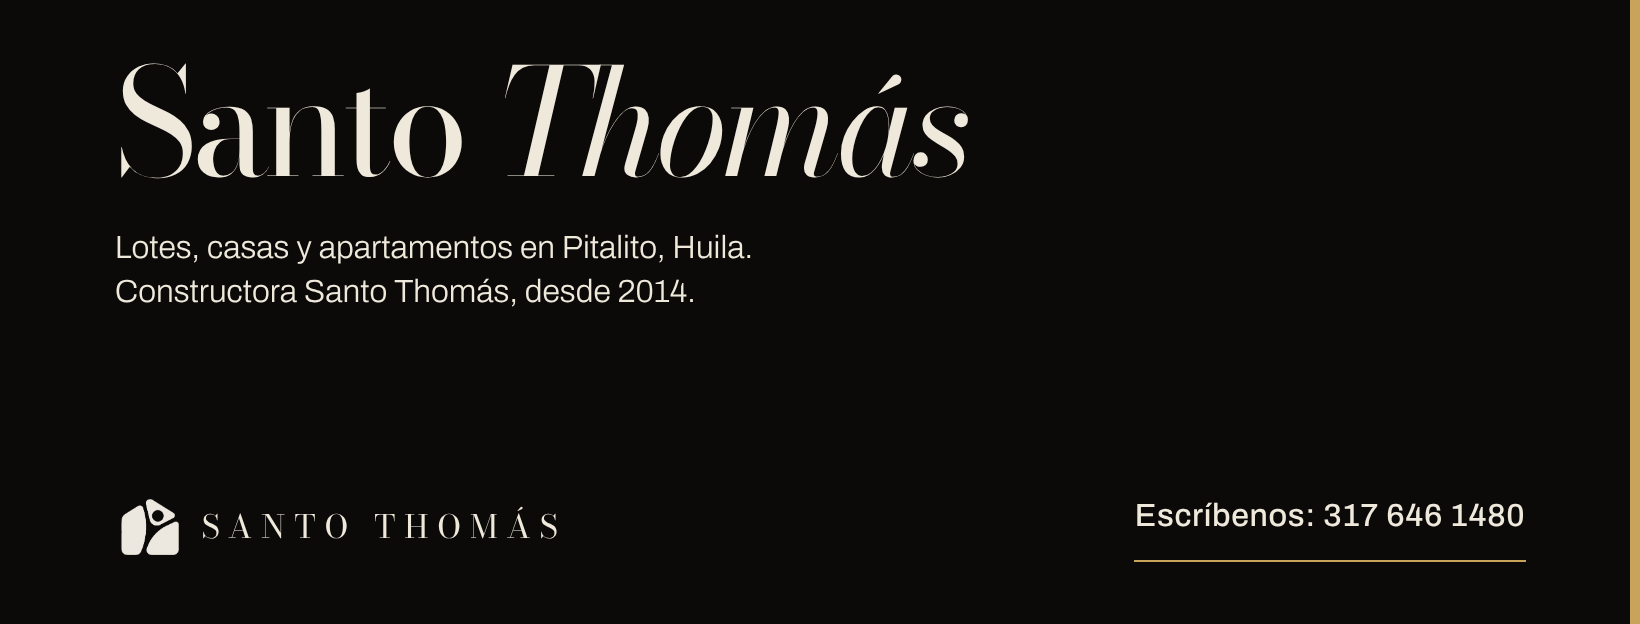
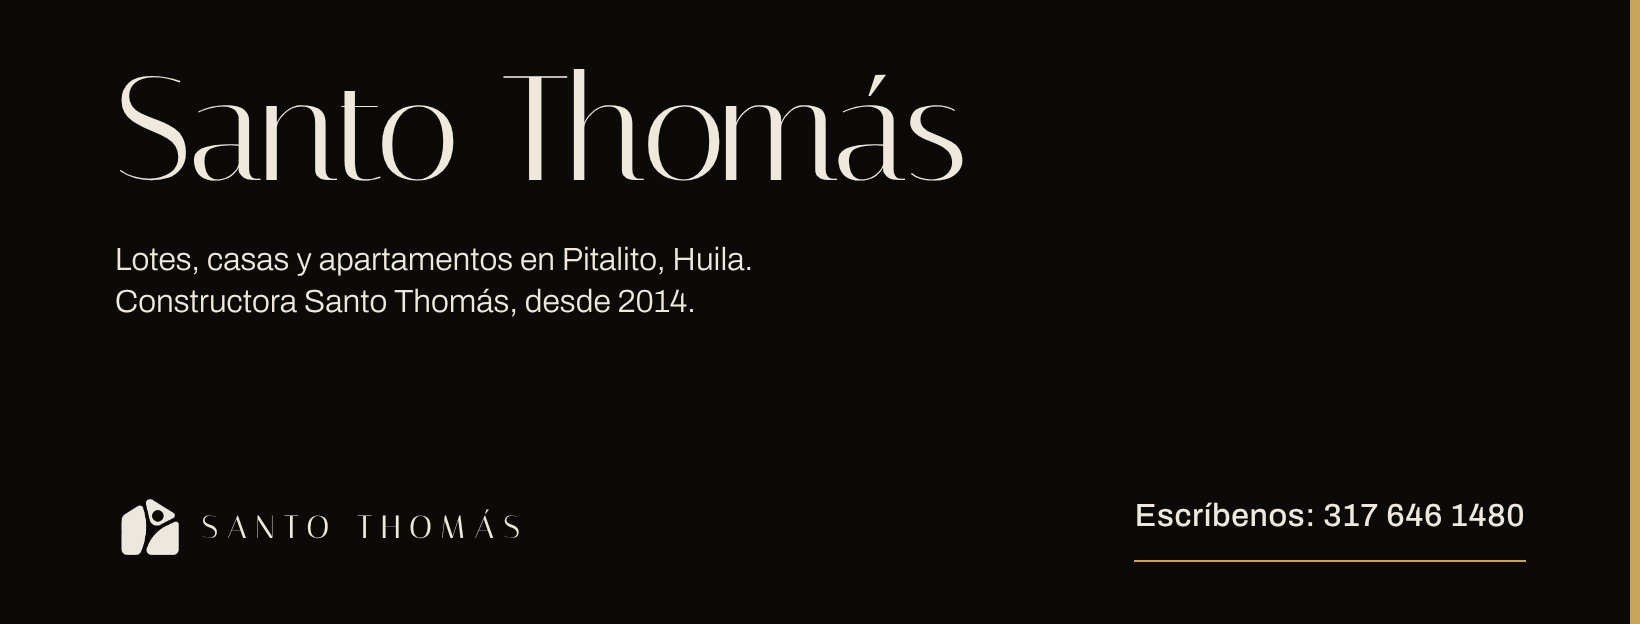
Move the history section up and switch display type to Italiana
History and key dates now follow the manifesto, before the projects;
the FAQ stays near the end. Headings use Italiana, whose thin flared
letters echo the logo wordmark, in place of Bodoni Moda.

Claude-Session: https://claude.ai/code/session_01EuNx7qHGaqCun31qjyEdxN

diff --git a/santo-thomas/index.html b/santo-thomas/index.html
@@ -17,7 +17,7 @@
 <link rel="apple-touch-icon" href="img/favicon.png">
 <link rel="preconnect" href="https://fonts.googleapis.com">
 <link rel="preconnect" href="https://fonts.gstatic.com" crossorigin>
-<link href="https://fonts.googleapis.com/css2?family=Bodoni+Moda:ital,opsz,wght@0,6..96,400..600;1,6..96,400..600&family=Archivo:wght@300..600&display=swap" rel="stylesheet">
+<link href="https://fonts.googleapis.com/css2?family=Italiana&family=Archivo:wght@300..600&display=swap" rel="stylesheet">
 <script type="application/ld+json">
 {
   "@context": "https://schema.org",
@@ -46,7 +46,7 @@
   --oro:#c8a45a; --bronce:#8c7446; --gris:#9a9383; --linea:rgba(239,233,220,.16);
   --m:clamp(20px,3.2vw,56px);
   --seccion:clamp(110px,16vw,250px);
-  --serif:'Bodoni Moda','Didot','Bodoni 72',Georgia,serif;
+  --serif:'Italiana','Optima','Candara',Georgia,serif;
   --salir:cubic-bezier(.16,.84,.24,1);
 }
 *,*::before,*::after{box-sizing:border-box}
@@ -58,15 +58,16 @@ img{display:block;max-width:100%;height:auto}
 a{color:inherit}
 h1,h2,h3,p,figure,ul,ol,dl,dd{margin:0}
 ul,ol{padding:0;list-style:none}
-h1,h2,h3{font-family:var(--serif);font-weight:400;letter-spacing:-.028em;line-height:.9}
+h1,h2,h3{font-family:var(--serif);font-weight:400;letter-spacing:-.012em;line-height:.94}
 h2{font-size:clamp(44px,7.4vw,124px)}
-em{font-style:italic}
+em{font-style:normal;color:var(--oro)}
+.claro em{color:#8a6a24}
 .wrap{padding-inline:var(--m)}
 .seccion{padding-block:var(--seccion)}
 /* Rótulo: la letra pequeña del sistema */
 .rot{font-size:12px;font-weight:500;letter-spacing:.24em;text-transform:uppercase;color:var(--gris);line-height:1.5}
 .rot b{font-weight:500;color:var(--oro)}
-.decl{font-family:var(--serif);font-size:clamp(26px,2.9vw,44px);line-height:1.14;letter-spacing:-.015em}
+.decl{font-family:var(--serif);font-size:clamp(27px,3vw,46px);line-height:1.14;letter-spacing:0}
 .nota{font-size:15px;line-height:1.5;color:var(--gris)}
 .filete{height:1px;background:var(--linea);border:0;margin:0}
 :focus-visible{outline:1px solid var(--oro);outline-offset:5px}
@@ -100,7 +101,7 @@ em{font-style:italic}
 
 /* Barra */
 .barra{position:absolute;top:0;left:0;right:0;z-index:5;display:flex;align-items:center;gap:var(--m);padding:28px var(--m)}
-.barra .marca{margin-right:auto;display:flex;align-items:center;gap:14px;text-decoration:none;font-family:var(--serif);font-size:17px;letter-spacing:.3em;text-transform:uppercase}
+.barra .marca{margin-right:auto;display:flex;align-items:center;gap:14px;text-decoration:none;font-family:var(--serif);font-size:19px;letter-spacing:.3em;text-transform:uppercase}
 .barra .marca img{width:30px;height:auto}
 .barra ul{display:flex;gap:clamp(18px,3vw,48px)}
 .barra nav a{text-decoration:none;font-size:12px;font-weight:500;letter-spacing:.22em;text-transform:uppercase;padding:12px 0;display:block;transition:color .25s}
@@ -109,8 +110,8 @@ em{font-style:italic}
 
 /* Portada: dos palabras enormes que pisan las fotos */
 .portada{position:relative;min-height:max(100svh,700px);display:grid;grid-template-columns:repeat(12,minmax(0,1fr));grid-template-rows:1fr auto;column-gap:var(--m);padding:120px var(--m) clamp(28px,5vh,56px)}
-.portada h1{grid-column:1/-1;grid-row:1;align-self:center;position:relative;z-index:2;font-size:clamp(76px,16.6vw,290px);line-height:.82;letter-spacing:-.045em;pointer-events:none;mix-blend-mode:difference}
-.portada h1 .l2{padding-left:16vw;font-style:italic}
+.portada h1{grid-column:1/-1;grid-row:1;align-self:center;position:relative;z-index:2;font-size:clamp(72px,15.4vw,270px);line-height:.9;letter-spacing:-.02em;pointer-events:none;mix-blend-mode:difference}
+.portada h1 .l2{padding-left:16vw}
 /* El isotipo vive en la sangría de la segunda línea; el vidrio lo revela al abrir */
 .portada .sello{grid-column:1/4;grid-row:1;align-self:center;position:relative;z-index:1;width:21vw;margin-left:-3.4vw;aspect-ratio:1;transform:translateY(7.6vw);cursor:pointer}
 .portada .sello img{position:absolute;inset:0;margin:auto;width:42%;height:auto}
@@ -129,8 +130,8 @@ em{font-style:italic}
 }
 
 /* Manifiesto: se enciende palabra por palabra al pasar */
-.manifiesto{padding-block:clamp(110px,18vw,280px);display:grid;gap:36px}
-.manifiesto p.texto{font-family:var(--serif);font-size:clamp(30px,4.5vw,76px);line-height:1.08;letter-spacing:-.022em;max-width:20ch;text-wrap:balance}
+.manifiesto{padding-block:clamp(110px,18vw,280px) clamp(90px,13vw,200px);display:grid;gap:36px}
+.manifiesto p.texto{font-family:var(--serif);font-size:clamp(30px,4.5vw,76px);line-height:1.1;letter-spacing:-.008em;max-width:20ch;text-wrap:balance}
 .manifiesto .texto span{opacity:.16;transition:opacity .5s linear}
 .manifiesto .texto span.on{opacity:1}
 @media(min-width:900px){.manifiesto{grid-template-columns:repeat(12,minmax(0,1fr));column-gap:var(--m)}.manifiesto .rot{grid-column:1/4;padding-top:.9em}.manifiesto p.texto{grid-column:4/13;max-width:19ch}}
@@ -140,7 +141,7 @@ em{font-style:italic}
 .laminas .cab{display:flex;justify-content:space-between;align-items:end;gap:24px;padding-bottom:28px}
 .lamina{display:grid;gap:28px;padding-block:44px}
 .lamina .foto{aspect-ratio:4/3}
-.lamina .num{font-family:var(--serif);font-size:clamp(90px,15vw,250px);line-height:.74;letter-spacing:-.05em;color:transparent;-webkit-text-stroke:1px var(--bronce)}
+.lamina .num{font-family:var(--serif);font-size:clamp(90px,15vw,250px);line-height:.8;letter-spacing:-.02em;color:var(--bronce)}
 .lamina .txt{display:grid;gap:24px;justify-items:start;align-content:end}
 .lamina h3{font-size:clamp(40px,5.2vw,88px)}
 .lamina .txt p:not(.decl){max-width:40ch}
@@ -176,8 +177,8 @@ em{font-style:italic}
 @media(min-width:900px){.obra .cab{grid-template-columns:repeat(12,minmax(0,1fr));column-gap:var(--m);align-items:end}.obra .cab h2{grid-column:1/8}.obra .cab p{grid-column:9/13}}
 .pasos{display:grid;gap:clamp(14px,2vw,32px)}
 .pasos li{display:grid;gap:16px}
-.pasos .n{font-family:var(--serif);font-size:15px;letter-spacing:.1em;color:var(--oro)}
-.pasos h3{font-size:clamp(26px,2.4vw,38px);letter-spacing:-.015em;line-height:1}
+.pasos .n{font-family:var(--serif);font-size:22px;letter-spacing:.1em;color:var(--oro)}
+.pasos h3{font-size:clamp(28px,2.6vw,40px);letter-spacing:0;line-height:1}
 @media(min-width:900px){.pasos{grid-template-columns:repeat(3,minmax(0,1fr))}.pasos li:nth-child(2){margin-top:9vw}.pasos li:nth-child(3){margin-top:3vw}}
 
 /* Buscador */
@@ -185,11 +186,11 @@ em{font-style:italic}
 @media(min-width:900px){.busca{grid-template-columns:minmax(0,5fr) minmax(0,7fr)}}
 .busca form{display:grid;gap:34px;justify-items:start}
 .opciones{display:grid;width:100%;border-top:1px solid var(--linea)}
-.opciones label{display:flex;align-items:baseline;justify-content:space-between;gap:18px;padding:18px 0;border-bottom:1px solid var(--linea);cursor:pointer;font-family:var(--serif);font-size:clamp(28px,3.1vw,48px);line-height:1;letter-spacing:-.02em;color:#6f695d;transition:color .3s,padding .5s var(--salir)}
+.opciones label{display:flex;align-items:baseline;justify-content:space-between;gap:18px;padding:18px 0;border-bottom:1px solid var(--linea);cursor:pointer;font-family:var(--serif);font-size:clamp(28px,3.1vw,48px);line-height:1;letter-spacing:0;color:#6f695d;transition:color .3s,padding .5s var(--salir)}
 .opciones label::after{content:"";width:8px;height:8px;border-radius:50%;background:var(--oro);opacity:0;transform:scale(.3);transition:opacity .3s,transform .5s var(--salir);flex:none;align-self:center}
 .opciones label:hover{color:var(--marfil)}
 .opciones input{position:absolute;opacity:0;pointer-events:none}
-.opciones label:has(input:checked){color:var(--marfil);padding-left:18px;font-style:italic}
+.opciones label:has(input:checked){color:var(--marfil);padding-left:18px}
 .opciones label:has(input:checked)::after{opacity:1;transform:none}
 .opciones label:has(input:focus-visible){outline:1px solid var(--oro);outline-offset:4px}
 .plano{position:relative;aspect-ratio:4/3}
@@ -205,13 +206,13 @@ em{font-style:italic}
 @media(min-width:900px){.empresa{grid-template-columns:repeat(12,minmax(0,1fr));column-gap:var(--m)}.empresa .txt{grid-column:1/8}.empresa .foto{grid-column:9/13;margin-top:10vw}}
 .cifras{display:grid;gap:28px;padding-top:clamp(56px,8vw,120px)}
 .cifras div{display:grid;gap:10px;padding-top:22px;border-top:1px solid rgba(11,10,8,.2)}
-.cifras b{font-family:var(--serif);font-weight:400;font-variation-settings:'opsz' 30;font-size:clamp(64px,9vw,150px);line-height:.8;letter-spacing:-.05em;font-variant-numeric:lining-nums}
+.cifras b{font-family:var(--serif);font-weight:400;font-size:clamp(64px,9vw,150px);line-height:.86;letter-spacing:-.01em;font-variant-numeric:lining-nums}
 @media(min-width:700px){.cifras{grid-template-columns:repeat(3,minmax(0,1fr));column-gap:var(--m)}}
-.preg{display:grid;gap:clamp(28px,4vw,64px);padding-top:var(--seccion)}
+.preg{display:grid;gap:clamp(28px,4vw,64px)}
 @media(min-width:900px){.preg{grid-template-columns:repeat(12,minmax(0,1fr));column-gap:var(--m)}.preg h2{grid-column:1/6}.preg .lista{grid-column:7/13}}
 .preg details{border-bottom:1px solid rgba(11,10,8,.2)}
 .preg details:first-child{border-top:1px solid rgba(11,10,8,.2)}
-.preg summary{cursor:pointer;list-style:none;padding:22px 0;font-family:var(--serif);font-size:clamp(24px,2.1vw,32px);line-height:1.1;letter-spacing:-.015em;display:flex;justify-content:space-between;gap:20px;transition:color .25s}
+.preg summary{cursor:pointer;list-style:none;padding:22px 0;font-family:var(--serif);font-size:clamp(26px,2.3vw,34px);line-height:1.1;letter-spacing:0;display:flex;justify-content:space-between;gap:20px;transition:color .25s}
 .preg summary::-webkit-details-marker{display:none}
 .preg summary::after{content:"+";font-family:Archivo,sans-serif;font-weight:300;font-size:26px;transition:transform .4s var(--salir)}
 .preg details[open] summary::after{transform:rotate(45deg)}
@@ -222,10 +223,10 @@ em{font-style:italic}
 .cierre{padding-top:var(--seccion);overflow:hidden}
 .cierre .datos{display:grid;gap:clamp(32px,5vw,80px);padding-bottom:clamp(64px,9vw,140px)}
 @media(min-width:900px){.cierre .datos{grid-template-columns:repeat(12,minmax(0,1fr));column-gap:var(--m);align-items:end}.cierre .datos > div{grid-column:1/8}.cierre address{grid-column:9/13}}
-.cierre .tel{font-family:var(--serif);font-variation-settings:'opsz' 36;font-size:clamp(48px,8vw,132px);font-variant-numeric:lining-nums;letter-spacing:-.04em;line-height:.9;text-decoration:none;display:inline-block;margin-block:22px 30px;transition:color .25s}
+.cierre .tel{font-family:var(--serif);font-size:clamp(48px,8vw,132px);letter-spacing:0;line-height:.9;text-decoration:none;display:inline-block;margin-block:22px 30px;transition:color .25s}
 .cierre .tel:hover{color:var(--oro)}
 .cierre address{font-style:normal;display:grid;gap:16px;justify-items:start}
-.cierre .firma{font-family:var(--serif);font-size:15.6vw;line-height:.78;letter-spacing:-.045em;white-space:nowrap;text-align:center;color:transparent;-webkit-text-stroke:1px var(--bronce);padding-bottom:.06em;user-select:none}
+.cierre .firma{font-family:var(--serif);font-size:15vw;line-height:.86;letter-spacing:-.015em;white-space:nowrap;text-align:center;color:var(--carbon-2);padding-bottom:.06em;user-select:none}
 .cierre .pie{padding:22px var(--m);border-top:1px solid var(--linea);display:flex;flex-wrap:wrap;gap:8px 24px;justify-content:space-between}
 
 .flota{position:fixed;left:0;right:0;bottom:0;z-index:14;display:none;justify-content:center;padding:14px var(--m) calc(14px + env(safe-area-inset-bottom));background:var(--negro);border-top:1px solid var(--linea);text-decoration:none;font-size:11px;font-weight:500;letter-spacing:.24em;text-transform:uppercase}
@@ -242,9 +243,9 @@ em{font-style:italic}
   </a>
   <nav aria-label="Principal">
     <ul>
+      <li><a href="#empresa">Historia</a></li>
       <li><a href="#proyectos">Proyectos</a></li>
       <li><a href="#obra">Obra</a></li>
-      <li><a href="#empresa">Empresa</a></li>
       <li><a href="#contacto">Contacto</a></li>
       <li class="wa"><a href="https://wa.me/573176461480?text=Hola%2C%20quiero%20informaci%C3%B3n%20sobre%20los%20proyectos%20de%20Constructora%20Santo%20Thom%C3%A1s.">WhatsApp</a></li>
     </ul>
@@ -271,6 +272,26 @@ em{font-style:italic}
 <section class="manifiesto wrap">
   <p class="rot">La constructora</p>
   <p class="texto" id="manifiesto">Antes de la casa está la tierra. Abrimos la vía, tendemos las redes y entregamos el lote listo para construir.</p>
+</section>
+
+<section class="claro seccion wrap" id="empresa">
+  <div class="empresa" data-grupo>
+    <div class="txt">
+      <p class="rot" data-sube>Nuestra historia</p>
+      <h2><span class="linea"><span>De Pitalito,</span></span><span class="linea" style="--i:1"><span><em>para Pitalito</em></span></span></h2>
+      <p class="decl" data-sube style="--i:2;max-width:24ch">Trabajamos en el Huila desde 2014 y somos sociedad por acciones simplificada desde 2019.</p>
+      <p data-sube style="--i:3;max-width:46ch">Atendemos en nuestra oficina del Centro Comercial Gran Plaza San Antonio. Allí te mostramos cada proyecto y coordinamos la visita al lote.</p>
+      <a class="accion" data-sube style="--i:4" href="https://www.google.com/maps/search/?api=1&query=Centro+Comercial+Gran+Plaza+San+Antonio+Pitalito+Huila">Cómo llegar a la oficina</a>
+    </div>
+    <figure class="foto" data-tapa data-par style="--i:2">
+      <img src="img/oficina.webp" srcset="img/oficina-800.webp 800w, img/oficina.webp 1280w" sizes="(min-width:900px) 32vw, 100vw" width="1280" height="960" loading="lazy" alt="Recepción de la oficina de Santo Thomás.">
+    </figure>
+  </div>
+  <div class="cifras" data-grupo>
+    <div data-sube><b>2014</b><span class="rot">Año en que empezamos</span></div>
+    <div data-sube style="--i:1"><b>2019</b><span class="rot">Constituidos como S.A.S.</span></div>
+    <div data-sube style="--i:2"><b>148</b><span class="rot">Local en Gran Plaza San Antonio</span></div>
+  </div>
 </section>
 
 <section class="laminas" id="proyectos" aria-labelledby="proy-t">
@@ -380,24 +401,7 @@ em{font-style:italic}
   </div>
 </section>
 
-<section class="claro seccion wrap" id="empresa">
-  <div class="empresa" data-grupo>
-    <div class="txt">
-      <p class="rot" data-sube>La empresa</p>
-      <h2><span class="linea"><span>De Pitalito,</span></span><span class="linea" style="--i:1"><span><em>para Pitalito</em></span></span></h2>
-      <p class="decl" data-sube style="--i:2;max-width:24ch">Trabajamos en el Huila desde 2014 y somos sociedad por acciones simplificada desde 2019.</p>
-      <p data-sube style="--i:3;max-width:46ch">Atendemos en nuestra oficina del Centro Comercial Gran Plaza San Antonio. Allí te mostramos cada proyecto y coordinamos la visita al lote.</p>
-      <a class="accion" data-sube style="--i:4" href="https://www.google.com/maps/search/?api=1&query=Centro+Comercial+Gran+Plaza+San+Antonio+Pitalito+Huila">Cómo llegar a la oficina</a>
-    </div>
-    <figure class="foto" data-tapa data-par style="--i:2">
-      <img src="img/oficina.webp" srcset="img/oficina-800.webp 800w, img/oficina.webp 1280w" sizes="(min-width:900px) 32vw, 100vw" width="1280" height="960" loading="lazy" alt="Recepción de la oficina de Santo Thomás.">
-    </figure>
-  </div>
-  <div class="cifras" data-grupo>
-    <div data-sube><b>2014</b><span class="rot">Año en que empezamos</span></div>
-    <div data-sube style="--i:1"><b>2019</b><span class="rot">Constituidos como S.A.S.</span></div>
-    <div data-sube style="--i:2"><b>148</b><span class="rot">Local en Gran Plaza San Antonio</span></div>
-  </div>
+<section class="claro seccion wrap">
   <div class="preg" data-grupo>
     <h2><span class="linea"><span>Preguntas</span></span></h2>
     <div class="lista" data-sube style="--i:1">

diff --git a/santo-thomas/marca/brandkit.html b/santo-thomas/marca/brandkit.html
@@ -3,7 +3,7 @@
 <head>
 <meta charset="UTF-8">
 <title>Sistema de marca · Constructora Santo Thomás</title>
-<link href="https://fonts.googleapis.com/css2?family=Bodoni+Moda:ital,opsz,wght@0,6..96,400..600;1,6..96,400..600&family=Archivo:wght@300..600&display=swap" rel="stylesheet">
+<link href="https://fonts.googleapis.com/css2?family=Italiana&family=Archivo:wght@300..600&display=swap" rel="stylesheet">
 <style>
 /* Tablero de marca 3×3, 2400×1800. Extiende la identidad existente: el logo no se rediseña. */
 :root{--cal:#efe9dc;--cal2:#e2dac8;--tinta:#0b0a08;--sup:#14120e;--sup2:#1c1914;--oro:#c8a45a;--gris:#9a9383}
@@ -14,7 +14,7 @@ body{background:#1b1b19;font-family:Archivo,sans-serif;color:var(--cal)}
 .et{position:absolute;left:28px;bottom:22px;font-size:17px;color:var(--gris);letter-spacing:.02em}
 .nu{position:absolute;right:28px;bottom:22px;font-size:17px;color:var(--gris);font-variant-numeric:tabular-nums}
 .claro{background:var(--cal);color:var(--tinta)}.claro .et,.claro .nu{color:#6a655b}
-.serif{font-family:'Bodoni Moda',serif;letter-spacing:-.03em}.serif em{font-style:italic}
+.serif{font-family:'Italiana',serif;letter-spacing:-.01em}.serif em{font-style:normal}
 .p1 img{width:52%}
 .p2{grid-template-columns:1.4fr 1fr;gap:0;padding:0;place-items:stretch}
 .p2 > div{height:100%;display:grid;place-items:center}
@@ -35,7 +35,7 @@ body{background:#1b1b19;font-family:Archivo,sans-serif;color:var(--cal)}
 .tj.f{background:var(--tinta);left:70px;top:64px;place-items:center;transform:rotate(-4deg)}
 .tj.f img{width:34%}
 .tj.d{background:var(--cal);color:var(--tinta);right:60px;bottom:96px;padding:30px 32px;align-content:space-between;transform:rotate(3deg)}
-.tj.d b{font-family:'Bodoni Moda',serif;font-weight:400;font-size:24px;letter-spacing:.24em;text-transform:uppercase}
+.tj.d b{font-family:'Italiana',serif;font-weight:400;font-size:24px;letter-spacing:.24em;text-transform:uppercase}
 .tj.d span{font-size:16px;line-height:1.5}
 .p8 img{position:absolute;inset:0;width:100%;height:100%;object-fit:cover}
 .p8::after{content:"";position:absolute;left:0;right:0;bottom:0;height:90px;background:rgba(11,10,8,.7)}
@@ -58,7 +58,7 @@ body{background:#1b1b19;font-family:Archivo,sans-serif;color:var(--cal)}
     <div style="background:#c8a45a;color:#0b0a08">Oro<span>#C8A45A</span></div>
     <span class="et" style="color:var(--gris)">Color</span><span class="nu" style="color:#0d0d0c">05</span>
   </div>
-  <div class="p p6 claro"><div><div class="aa serif">Aa</div><div class="f">Bodoni Moda · titulares</div><div class="abc serif">ABCDEFGHIJKLMNÑOPQRSTUVWXYZ</div><div class="txt">Archivo, para el texto corrido: lotes residenciales y comerciales en Pitalito, Huila.</div></div><span class="et">Tipografía</span><span class="nu">06</span></div>
+  <div class="p p6 claro"><div><div class="aa serif">Aa</div><div class="f">Italiana · titulares</div><div class="abc serif">ABCDEFGHIJKLMNÑOPQRSTUVWXYZ</div><div class="txt">Archivo, para el texto corrido: lotes residenciales y comerciales en Pitalito, Huila.</div></div><span class="et">Tipografía</span><span class="nu">06</span></div>
   <div class="p p7"><div class="tj f"><img src="../img/isotipo-solido.png" alt=""></div><div class="tj d"><b>Santo Thomás</b><span>317 646 1480<br>Cra. 15 No. 19A-01 Sur, local 148<br>C.C. Gran Plaza San Antonio · Pitalito</span></div><span class="et">Tarjeta</span><span class="nu">07</span></div>
   <div class="p p8"><img src="../img/render-torre.webp" alt=""><span class="et">Fotografía: un solo etalonaje cálido</span><span class="nu">08</span></div>
   <div class="p p9"><canvas id="c9"></canvas><span class="et">Patrón generativo «Loteo»</span><span class="nu">09</span></div>

diff --git a/santo-thomas/banners/banners.html b/santo-thomas/banners/banners.html
@@ -3,7 +3,7 @@
 <head>
 <meta charset="UTF-8">
 <title>Banners · Constructora Santo Thomás</title>
-<link href="https://fonts.googleapis.com/css2?family=Bodoni+Moda:ital,opsz,wght@0,6..96,400..600;1,6..96,400..600&family=Archivo:wght@300..600&display=swap" rel="stylesheet">
+<link href="https://fonts.googleapis.com/css2?family=Italiana&family=Archivo:wght@300..600&display=swap" rel="stylesheet">
 <style>
 /* Fuente de los banners. Uso: banners.html?estilo=foto|tipografia|loteo&w=1080&h=1080 */
 :root{--cal:#efe9dc;--tinta:#0b0a08;--campo:#1c1914;--campo-osc:#0b0a08;--oro:#c8a45a}
@@ -11,10 +11,10 @@
 body{background:#888;font-family:Archivo,sans-serif}
 #b{position:relative;overflow:hidden;container-type:size;color:var(--cal)}
 #b .zona{position:absolute;inset:10cqh 7cqw;display:flex;flex-direction:column;justify-content:space-between} /* zona segura */
-h1{font-family:'Bodoni Moda',serif;font-weight:400;letter-spacing:-.04em;line-height:.84;font-size:calc(var(--u)*21);max-width:7ch;text-wrap:balance}
+h1{font-family:'Italiana',serif;font-weight:400;letter-spacing:-.015em;line-height:.92;font-size:calc(var(--u)*21);max-width:7ch;text-wrap:balance}
 .sub{font-size:max(16px,calc(var(--u)*3.4));line-height:1.35;font-weight:400;max-width:30ch;margin-top:calc(var(--u)*7)}
 .fila{display:flex;align-items:flex-end;justify-content:space-between;gap:4cqw}
-.marca{display:flex;align-items:center;gap:calc(var(--u)*2);font-family:'Bodoni Moda',serif;font-weight:400;font-size:max(16px,calc(var(--u)*3.2));letter-spacing:.28em;text-transform:uppercase}
+.marca{display:flex;align-items:center;gap:calc(var(--u)*2);font-family:'Italiana',serif;font-weight:400;font-size:max(16px,calc(var(--u)*3.2));letter-spacing:.28em;text-transform:uppercase}
 .marca img{height:calc(var(--u)*9);width:auto}
 .cta{color:var(--cal);font-weight:500;letter-spacing:.02em;font-size:max(16px,calc(var(--u)*3.3));min-height:44px;display:flex;align-items:center;white-space:nowrap;background:linear-gradient(var(--oro),var(--oro)) left bottom/100% max(1px,calc(var(--u)*.25)) no-repeat;padding:0 0 calc(var(--u)*.6)}
 /* A · Foto */
@@ -35,7 +35,7 @@ h1{font-family:'Bodoni Moda',serif;font-weight:400;letter-spacing:-.04em;line-he
 .loteo h1,.loteo .sub{max-width:7ch}.loteo .sub{max-width:22ch}
 .ancho h1,.tipografia.ancho h1{max-width:16ch;font-size:calc(var(--u)*19)}
 .ancho .sub{margin-top:calc(var(--u)*5);max-width:44ch}
-h1 em{font-style:italic}
+h1 em{font-style:normal}
 .sub{font-weight:300}
 </style>
 </head>
